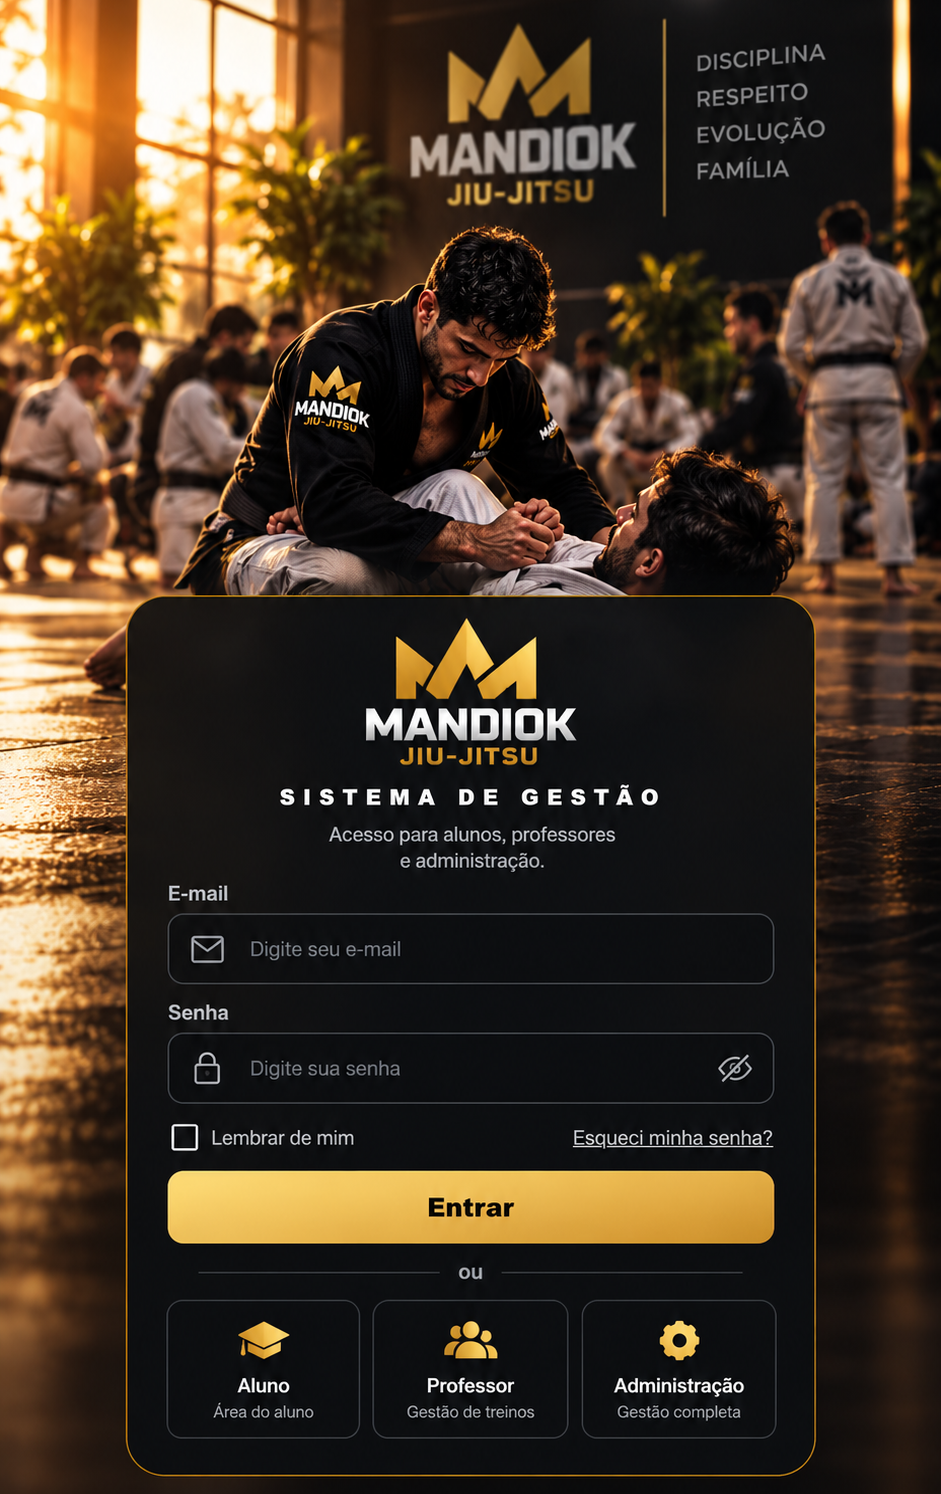
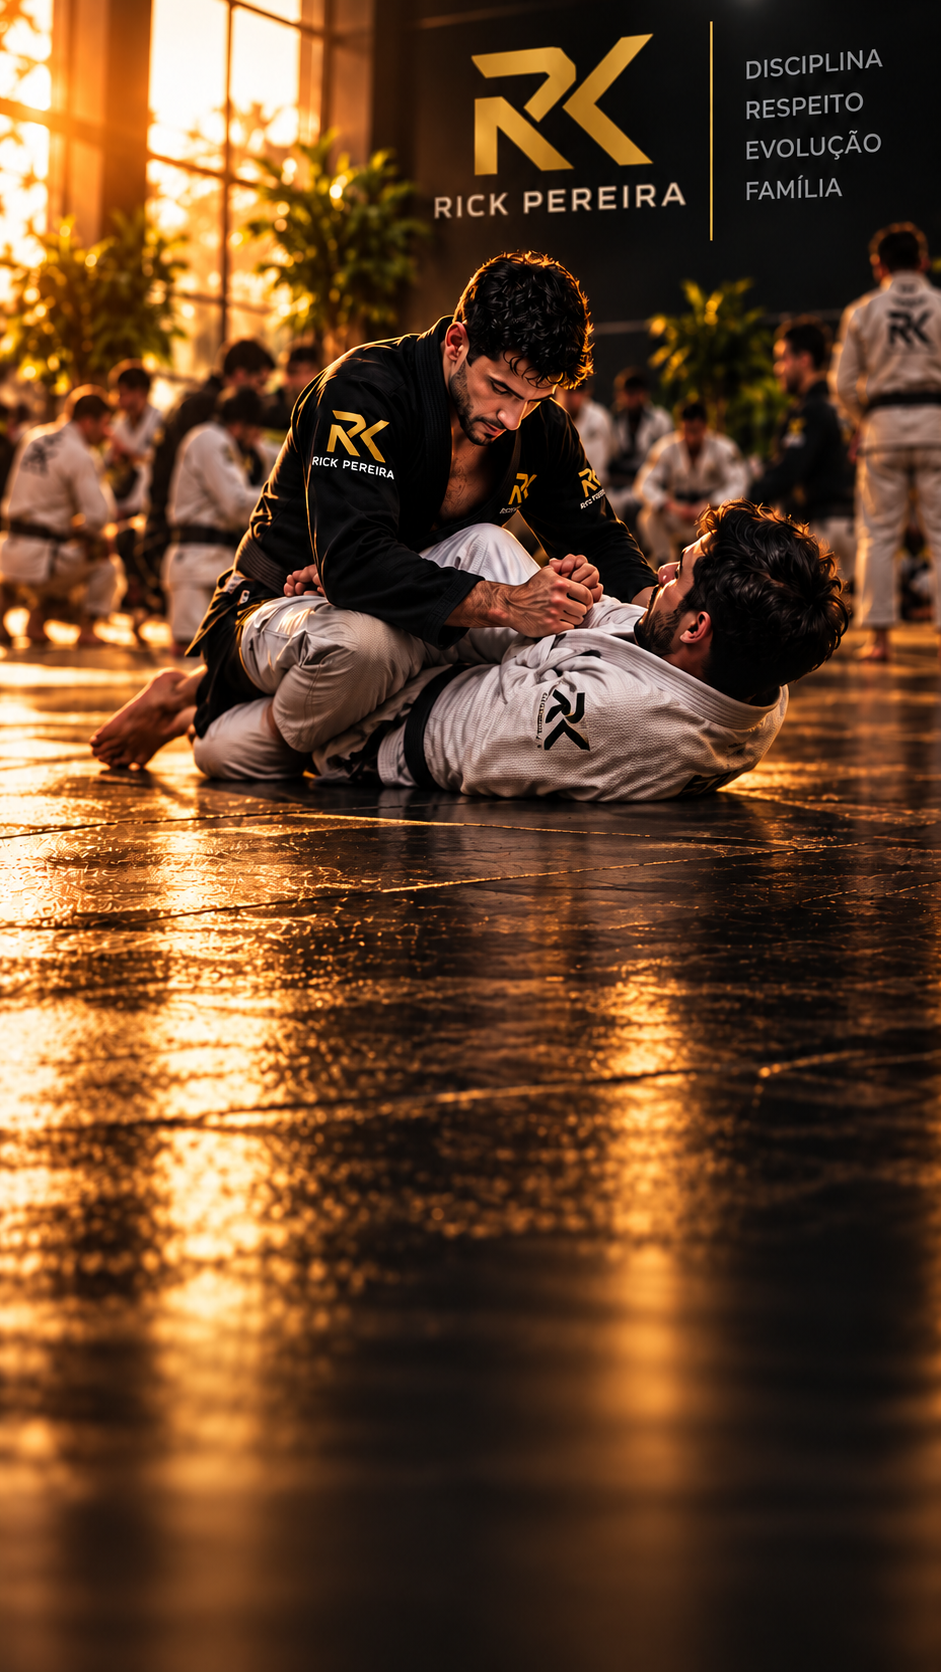
first commit

diff --git a/src/app/login/styles.module.scss b/src/app/login/styles.module.scss
@@ -2,9 +2,12 @@
 
 .page {
     position: relative;
+
     display: flex;
+
     width: 100%;
     min-height: 100vh;
+
     overflow: hidden;
 
     background-color: #090a0c;
@@ -50,79 +53,89 @@
     width: min(430px, 100%);
 }
 
-/* =========================
+/* =========================================
    TABLET / MOBILE
-   ========================= */
+   ========================================= */
 
 @media (max-width: 900px) {
     .page {
+        width: 100%;
+
+        height: 100svh;
         min-height: 100svh;
+        max-height: 100svh;
+
+        overflow: hidden;
 
         background-image: url("/images/login/login-background-mobile.png");
         background-repeat: no-repeat;
-
-        /*
-         * Para essa foto, o melhor é manter cover
-         * e trabalhar o posicionamento.
-         */
         background-size: cover;
-        background-position: center top;
+        background-position: center center;
     }
 
     .overlay {
         background:
             linear-gradient(180deg,
                 rgba(0, 0, 0, 0.02) 0%,
-                rgba(0, 0, 0, 0.06) 20%,
-                rgba(0, 0, 0, 0.14) 40%,
-                rgba(0, 0, 0, 0.34) 62%,
-                rgba(0, 0, 0, 0.74) 100%);
+                rgba(0, 0, 0, 0.05) 25%,
+                rgba(0, 0, 0, 0.15) 50%,
+                rgba(0, 0, 0, 0.42) 78%,
+                rgba(0, 0, 0, 0.70) 100%);
     }
 
     .content {
+        width: 100%;
+        height: 100%;
+
+        min-height: 0;
+
+        display: flex;
         align-items: flex-end;
         justify-content: center;
 
-        width: 100%;
-        min-height: 100svh;
+        overflow: hidden;
 
-        /*
-         * Empurra o card para baixo e deixa
-         * a cena aparecer mais acima.
-         */
-        padding: clamp(260px, 42svh, 360px) 14px 18px;
+        padding: 16px 14px 18px;
     }
 
     .formArea {
         width: min(390px, 94vw);
+
+        max-height: calc(100svh - 34px);
     }
 }
 
-/* =========================
+/* =========================================
    MOBILE MENOR
-   ========================= */
+   ========================================= */
 
 @media (max-width: 520px) {
     .page {
         background-size: cover;
-        background-position: center top;
+        background-position: center center;
     }
 
     .content {
-        padding: clamp(250px, 40svh, 340px) 12px 16px;
+        padding: 12px 12px 14px;
     }
 
     .formArea {
         width: min(385px, 100%);
+        max-height: calc(100svh - 26px);
     }
 }
 
-/* =========================
+/* =========================================
    TELAS MUITO PEQUENAS
-   ========================= */
+   ========================================= */
 
 @media (max-width: 380px) {
     .content {
-        padding: clamp(230px, 38svh, 320px) 10px 14px;
+        padding: 10px;
+    }
+
+    .formArea {
+        width: 100%;
+        max-height: calc(100svh - 20px);
     }
 }

diff --git a/src/app/page.tsx b/src/app/page.tsx
@@ -11,7 +11,7 @@ export default function HomePage() {
   return (
     <main className={styles.page}>
       <header className={styles.header}>
-        <div className={styles.brand}><span>MJ</span><div><strong>MANDIOK</strong><small>JIU-JITSU</small></div></div>
+        <div className={styles.brand}><span>MJ</span><div><strong>Rick Pereira</strong><small>JIU-JITSU</small></div></div>
         <nav><a href="#sobre">Sobre</a><a href="#destaques">Destaques</a><a href="#eventos">Eventos</a><a href="#contato">Contato</a></nav>
         <Link className={styles.login} href="/login">Área do aluno</Link>
       </header>
@@ -19,13 +19,13 @@ export default function HomePage() {
       <section className={styles.hero}>
         <div>
           <span className={styles.eyebrow}>DISCIPLINA • RESPEITO • EVOLUÇÃO</span>
-          <h1>Mais que luta.<br/><em>Uma equipe.</em></h1>
+          <h1>Mais que luta.<br /><em>Uma equipe.</em></h1>
           <p>Treinos para iniciantes, competidores, crianças e adultos. Evolução técnica com acompanhamento completo.</p>
           <div className={styles.actions}><a href="#contato">Quero treinar</a><Link href="/login">Entrar no sistema</Link></div>
         </div>
         <div className={styles.heroCard}>
           <div className={styles.glow}></div>
-          <strong>MANDIOK</strong>
+          <strong>Rick Pereira</strong>
           <span>JIU-JITSU</span>
           <small>Gestão, performance e comunidade.</small>
         </div>
@@ -40,7 +40,7 @@ export default function HomePage() {
       <section id="destaques" className={styles.section}>
         <span className={styles.kicker}>ALUNOS EM DESTAQUE</span>
         <div className={styles.grid}>
-          {highlights.map((h) => <article className={styles.card} key={h.name}><div className={styles.avatar}>{h.name.slice(0,1)}</div><h3>{h.name}</h3><strong>{h.title}</strong><p>{h.text}</p></article>)}
+          {highlights.map((h) => <article className={styles.card} key={h.name}><div className={styles.avatar}>{h.name.slice(0, 1)}</div><h3>{h.name}</h3><strong>{h.title}</strong><p>{h.text}</p></article>)}
         </div>
       </section>
 
@@ -59,7 +59,7 @@ export default function HomePage() {
         <div className={styles.mapPlaceholder}>MAPA / COMO CHEGAR</div>
       </section>
 
-      <footer>© {new Date().getFullYear()} Mandiok Jiu-Jitsu • Disciplina e evolução.</footer>
+      <footer>© {new Date().getFullYear()} Rick Pereira Jiu-Jitsu • Disciplina e evolução.</footer>
     </main>
   );
 }

diff --git a/src/app/sem-permissao/page.tsx b/src/app/sem-permissao/page.tsx
@@ -1,2 +1,32 @@
+// src/app/sem-permissao/page.tsx
+
 import Link from "next/link";
-export default function Page(){return <main style={{minHeight:"100vh",display:"grid",placeItems:"center",padding:20}}><div style={{textAlign:"center"}}><h1>Sem permissão</h1><p>Seu usuário não possui acesso a este módulo.</p><Link href="/dashboard">Voltar ao dashboard</Link></div></main>}
+
+export default function Page() {
+    return (
+        <main
+            style={{
+                minHeight: "100vh",
+                display: "grid",
+                placeItems: "center",
+                padding: 20,
+            }}
+        >
+            <div
+                style={{
+                    textAlign: "center",
+                }}
+            >
+                <h1>Sem permissão</h1>
+
+                <p>
+                    Seu usuário não possui acesso a este módulo.
+                </p>
+
+                <Link href="/dashboard">
+                    Voltar ao dashboard
+                </Link>
+            </div>
+        </main>
+    );
+}

diff --git a/src/app/layout.tsx b/src/app/layout.tsx
@@ -3,13 +3,13 @@ import RegisterSW from "@/components/pwa/RegisterSW/RegisterSW";
 import "./globals.scss";
 
 export const metadata: Metadata = {
-  title: "Mandiok Jiu-Jitsu",
-  description: "Gestão completa da equipe Mandiok Jiu-Jitsu",
+  title: "Rick Pereira Jiu-Jitsu",
+  description: "Gestão completa da equipe Rick Pereira Jiu-Jitsu",
   manifest: "/manifest.webmanifest",
   icons: { icon: ["/icons/icon-192.png", "/icons/icon-512.png"], apple: ["/icons/icon-192.png"] }
 };
 export const viewport: Viewport = { themeColor: "#111216" };
 
-export default function RootLayout({children}:{children:React.ReactNode}) {
-  return <html lang="pt-BR"><body>{children}<RegisterSW/></body></html>;
+export default function RootLayout({ children }: { children: React.ReactNode }) {
+  return <html lang="pt-BR"><body>{children}<RegisterSW /></body></html>;
 }

diff --git a/src/app/manifest.ts b/src/app/manifest.ts
@@ -3,7 +3,7 @@ export default function manifest(): MetadataRoute.Manifest {
   return {
     name: "Mandiok Jiu-Jitsu",
     short_name: "Mandiok",
-    description: "Gestão completa da equipe Mandiok Jiu-Jitsu",
+    description: "Gestão completa da equipe Rick Pereira Jiu-Jitsu",
     start_url: "/",
     display: "standalone",
     background_color: "#111216",

diff --git a/src/components/auth/LoginForm/styles.module.scss b/src/components/auth/LoginForm/styles.module.scss
@@ -30,8 +30,8 @@
 }
 
 .logo {
-    width: 125px;
-    height: 125px;
+    width: 145px;
+    height: 145px;
 
     object-fit: contain;
 }
@@ -333,8 +333,8 @@
     }
 
     .logo {
-        width: 105px;
-        height: 105px;
+        width: 125px;
+        height: 125px;
     }
 
     .heading {

diff --git a/src/components/auth/LoginForm/LoginForm.tsx b/src/components/auth/LoginForm/LoginForm.tsx
@@ -69,7 +69,7 @@ export default function LoginForm() {
       <div className={styles.logoArea}>
         <Image
           src="/images/logo/logo.png"
-          alt="Mandiok Jiu-Jitsu"
+          alt="Rick Pereira Jiu-Jitsu"
           width={150}
           height={150}
           priority
